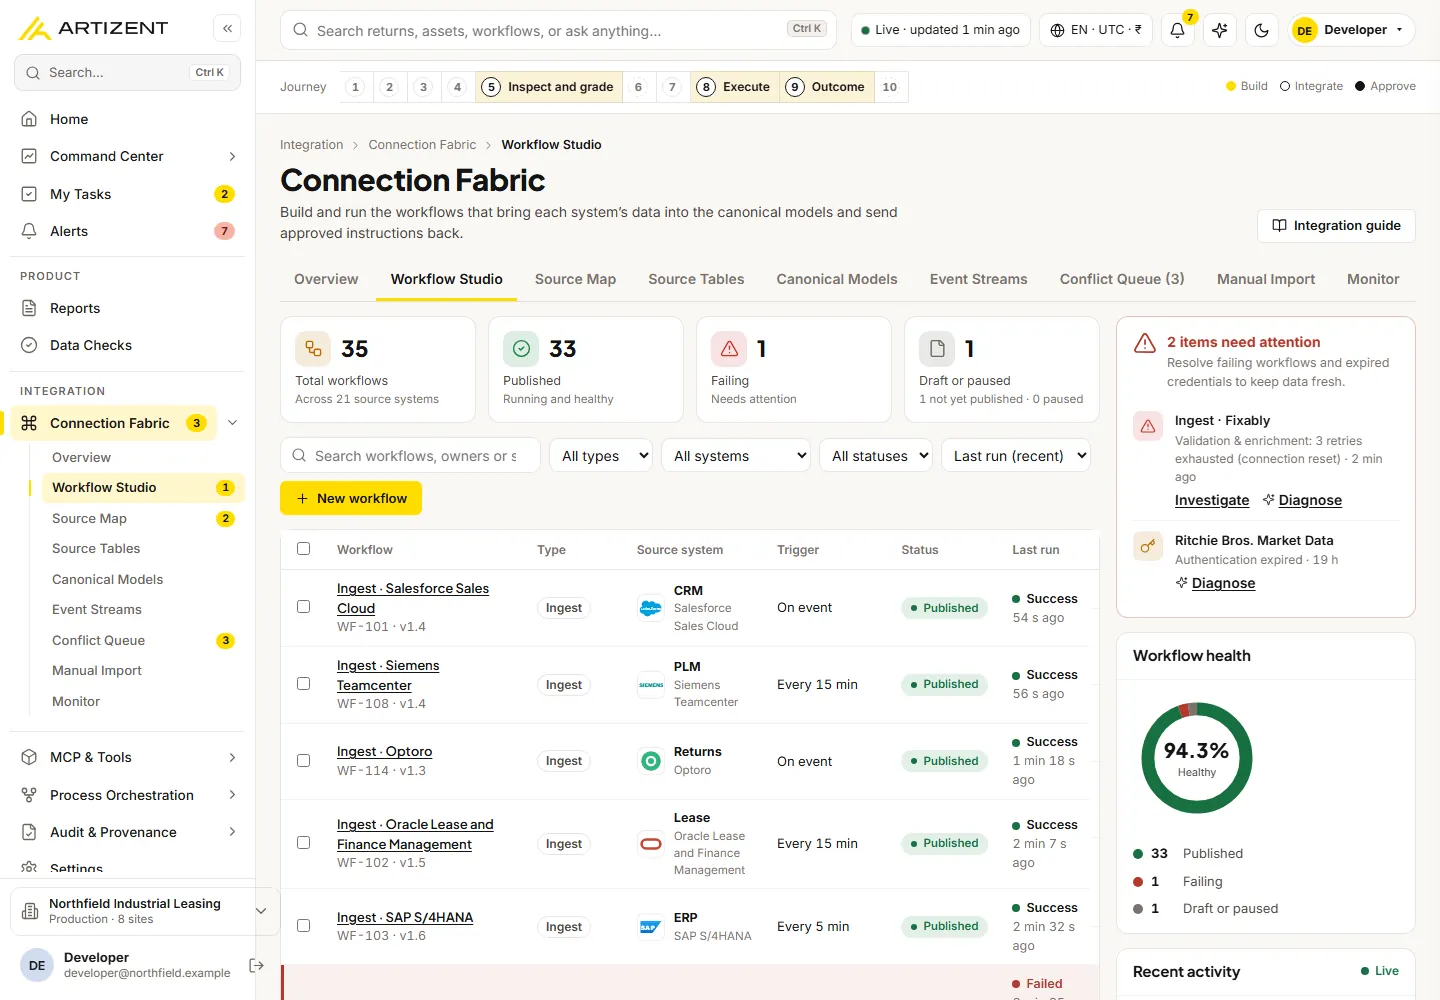
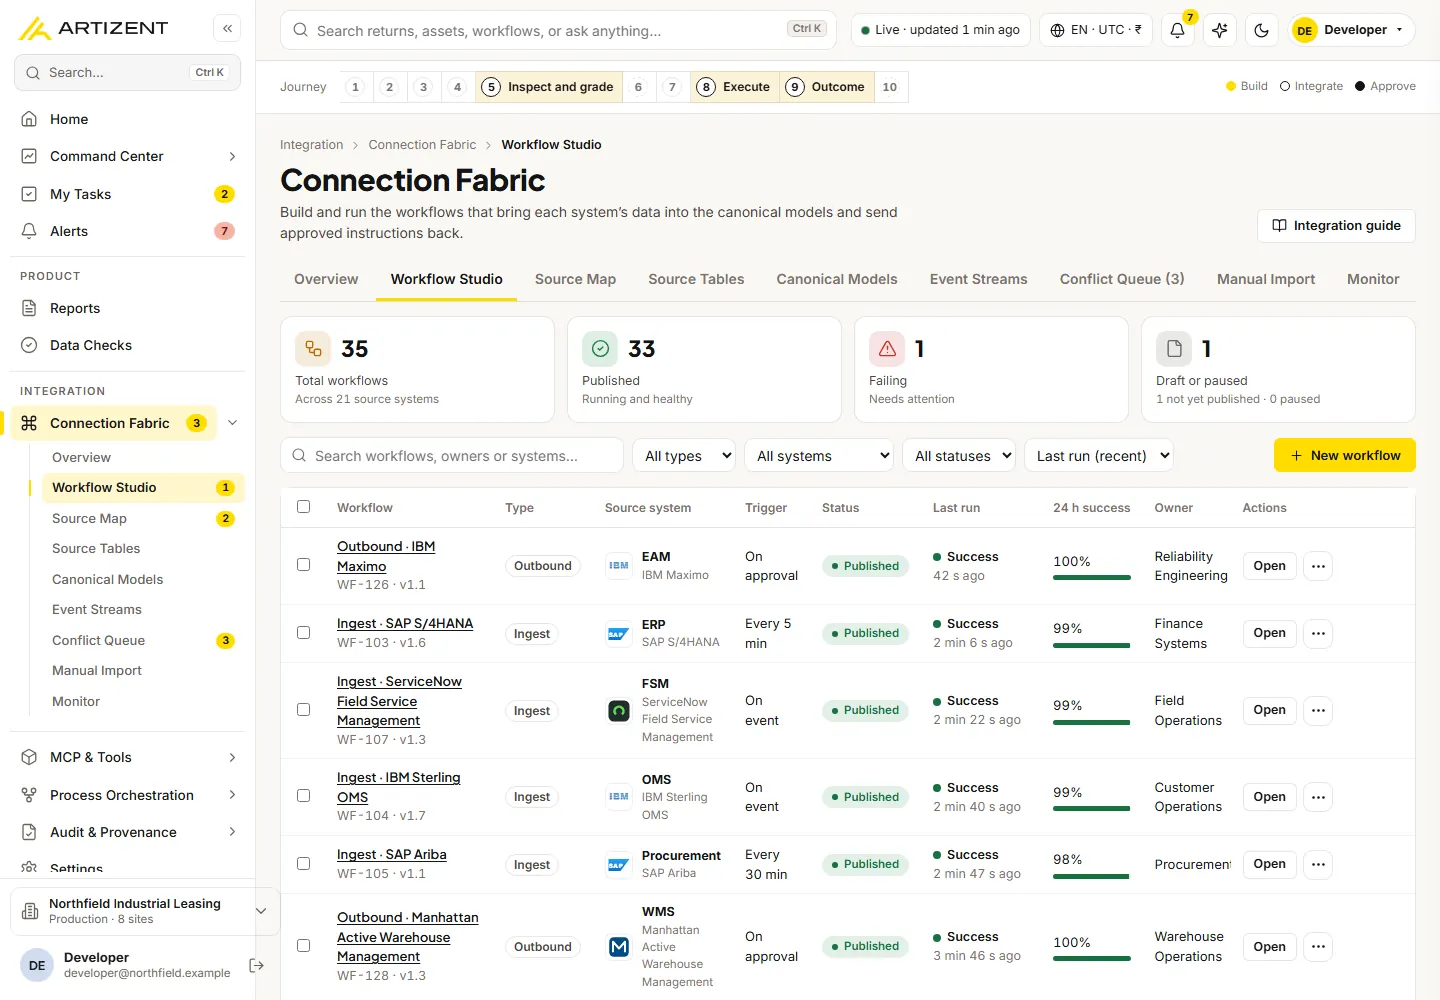
Fix the failing workflow row: class collision, pinned actions, clamped reason
The 24 h success cell shared the class `frok` with the connect flow's green "Allowed by" line, so
the cell became a flex box: its background broke, the mini bar vanished and 62% showed green.
The cell is now `frsucc` (the line is `frallowed`) and the value is coloured by threshold like the
bar. The Actions column is pinned to the right edge so Investigate, the agent's ✦ and ⋯ never clip;
✦ sits inline with them. The failure reason clamps to two lines with the full text on hover, the age
stays on one line, Owner and Trigger wrap, the page cap is 1760 px, and the right column moves under
the list below 1680 px.

diff --git a/index.html b/index.html
@@ -1266,12 +1266,15 @@ html.fr[data-theme="dark"] .vlg{border-color:transparent}
 .frtest .frtd{width:20px;height:20px;border-radius:50%;display:grid;place-items:center;font-size:11px;font-weight:800;background:var(--panel3)}.frtest li.ok .frtd{background:var(--ok);color:#fff}.frtest li.bad .frtd{background:var(--bad);color:#fff}.frtest li.bad{background:var(--bad-soft)}.frtest li.run .frtd{background:var(--yellow);color:#141414}
 /* ---- Workflow Studio list ---- */
 .frwfl{display:grid;grid-template-columns:minmax(0,1fr) 300px;gap:16px;align-items:start}.frwfm{display:grid;gap:14px;min-width:0}.frwfs{display:grid;gap:14px;position:sticky;top:76px}
-.frwft td{vertical-align:middle}.frwft td:nth-child(2){min-width:200px}.frwfm .tw{overflow-x:auto}.frck{width:34px}.frsys{display:flex;align-items:center;gap:9px}.frsys>span{display:flex;flex-direction:column;min-width:0}.frsys b{font-size:12.5px}.frsys .note{font-size:11.5px}
-tr.frfail td{background:color-mix(in srgb,var(--bad) 7%,transparent)}tr.frfail td:first-child{box-shadow:inset 3px 0 0 var(--bad)}
-.frwhy{font-size:11.5px;color:var(--bad);max-width:200px}
+html.fr .page{max-width:1760px}
+.frwft th,.frwft td{padding:9px 7px}.frwft td{vertical-align:middle}.frwft td:nth-child(2){min-width:168px}.frwft td:nth-child(9){max-width:104px}.frwft .frtrig{max-width:92px;min-width:70px}.frwfm .tw{overflow-x:auto}.frck{width:34px}.frsys{display:flex;align-items:center;gap:9px}.frsys>span{display:flex;flex-direction:column;min-width:0}.frsys b{font-size:12.5px}.frsys .note{font-size:11.5px}
+tr.frfail td{background:color-mix(in srgb,var(--bad) 7%,var(--panel))}
+/* the Actions column stays pinned to the right edge, so Investigate, ✦ and ⋯ are always visible */
+.frwft th:last-child,.frwft td:last-child{position:sticky;right:0;z-index:1;background:var(--panel);box-shadow:-10px 0 12px -10px rgba(0,0,0,.35)}.frwft thead th:last-child{background:var(--panel)}tr.frfail td:last-child{background:color-mix(in srgb,var(--bad) 7%,var(--panel))}tr.frfail td:first-child{box-shadow:inset 3px 0 0 var(--bad)}
+.frwhy{font-size:11.5px;line-height:1.35;color:var(--bad);max-width:180px;display:-webkit-box;-webkit-line-clamp:2;-webkit-box-orient:vertical;overflow:hidden;margin-top:2px}
 .frlr{display:inline-flex;align-items:center;gap:6px;font-size:12.5px;font-weight:600}.frlr i{width:8px;height:8px;border-radius:50%;background:var(--ok)}.frlr.failed{color:var(--bad)}.frlr.failed i{background:var(--bad)}.frlr.warning i{background:var(--h-dec)}
-.frok{min-width:96px}.frbar1{display:block;height:5px;border-radius:3px;background:var(--panel3);margin-top:4px;overflow:hidden}.frbar1 b{display:block;height:100%}
-.frta{gap:6px;align-items:center}.frinv{color:var(--bad);border-color:var(--bad)}
+.frsucc{min-width:80px}.frsucc .frmid{color:var(--warn)}.frbar1{display:block;height:5px;border-radius:3px;background:var(--panel3);margin-top:4px;overflow:hidden}.frbar1 b{display:block;height:100%}
+.frta{display:inline-flex;gap:6px;align-items:center;vertical-align:middle}.frwft td:last-child{white-space:nowrap}.frwft td:last-child>.afai{vertical-align:middle;margin-right:6px}.frinv{color:var(--bad);border-color:var(--bad)}
 .frbulk[hidden]{display:none}.frbulk{display:flex;align-items:center;gap:8px;padding:8px 12px;border-radius:10px;background:var(--yellow-soft);border:1px solid var(--yellow)}
 .frpager{display:flex;justify-content:space-between;align-items:center;gap:10px;padding:10px 14px;border-top:1px solid var(--line);flex-wrap:wrap}
 .frattnh{display:flex;gap:10px;align-items:flex-start}.frattnh>svg{width:24px;height:24px;color:var(--bad);flex:none}.frattnh b{color:var(--bad)}.frattnh p{margin:2px 0 0}
@@ -1350,15 +1353,17 @@ html.fr .wf[data-view="overview"] .frn .sb,html.fr .wf[data-view="overview"] .fr
 .frcxs{list-style:none;display:flex;gap:6px;padding:0;margin:0 0 16px;flex-wrap:wrap}.frcxs li{display:flex;align-items:center;gap:6px;font-size:12.5px;color:var(--muted);padding:4px 10px 4px 4px;border-radius:999px;background:var(--panel2)}
 .frcxs li span{width:20px;height:20px;border-radius:50%;display:grid;place-items:center;background:var(--panel3);font-size:11px;font-weight:700}.frcxs li.on{color:var(--ink);background:var(--yellow-soft)}.frcxs li.on span{background:var(--yellow);color:#141414}.frcxs li.done span{background:var(--ok);color:#fff}
 .frauth{display:grid;grid-template-columns:repeat(2,minmax(0,1fr));gap:8px;margin-bottom:12px}.frao{display:grid;grid-template-columns:auto 1fr;gap:2px 8px;padding:10px;border:1px solid var(--line);border-radius:10px;cursor:pointer}.frao input{grid-row:span 2}.frao.on{border-color:var(--yellow);background:var(--yellow-soft)}
-.frconsent{border:1px solid var(--line);border-radius:12px;padding:14px;background:var(--panel2);max-width:440px}.frcsh{display:flex;gap:10px;align-items:center;margin-bottom:8px}.frconsent ul{margin:6px 0 12px;padding-left:18px;font-size:13px}.frok{color:var(--ok);display:flex;gap:6px;align-items:center;margin:0;font-weight:600}.frok svg{width:16px;height:16px}
+.frconsent{border:1px solid var(--line);border-radius:12px;padding:14px;background:var(--panel2);max-width:440px}.frcsh{display:flex;gap:10px;align-items:center;margin-bottom:8px}.frconsent ul{margin:6px 0 12px;padding-left:18px;font-size:13px}.frallowed{color:var(--ok);display:flex;gap:6px;align-items:center;margin:0;font-weight:600}.frallowed svg{width:16px;height:16px}
 .frprog{height:10px;border-radius:5px;background:var(--panel3);overflow:hidden;margin:10px 0}.frprog i{display:block;height:100%;background:var(--yellow);transition:width .2s}
 .frdep{margin:6px 0 0;padding-left:18px}
-@media (max-width:1280px){.frwfl{grid-template-columns:minmax(0,1fr)}.frwfs{position:static;grid-template-columns:repeat(auto-fit,minmax(280px,1fr))}.frsmg{grid-template-columns:220px minmax(0,1fr)}.frsmp{grid-column:1/-1}.frwfg{grid-template-columns:minmax(0,1fr)}.frwfr{grid-template-columns:repeat(auto-fit,minmax(260px,1fr))}.frrecs{grid-template-columns:repeat(2,minmax(0,1fr))}}
+@media (max-width:1680px){.frwfl{grid-template-columns:minmax(0,1fr)}.frwfs{position:static;grid-template-columns:repeat(auto-fit,minmax(280px,1fr));align-items:start}}
+@media (max-width:1280px){.frsmg{grid-template-columns:220px minmax(0,1fr)}.frsmp{grid-column:1/-1}.frwfg{grid-template-columns:minmax(0,1fr)}.frwfr{grid-template-columns:repeat(auto-fit,minmax(260px,1fr))}.frrecs{grid-template-columns:repeat(2,minmax(0,1fr))}}
 @media (max-width:1100px){.frmon2,.frwfb,.frinvg{grid-template-columns:minmax(0,1fr)}.frfeat{grid-template-columns:minmax(0,1fr)}}
 @media (max-width:860px){.frkpis.fr3,.frkpis.fr4{grid-template-columns:repeat(2,minmax(0,1fr))}.frall,.frsmg{grid-template-columns:minmax(0,1fr)}.frcatl{display:none}.frrecs{grid-template-columns:minmax(0,1fr)}.frrep,.frset{grid-template-columns:minmax(0,1fr)}
  html.fr .frwf,html.fr .frwf.noinsp{grid-template-columns:minmax(0,1fr)}html.fr .frwf .wfpal,html.fr .frwf .wfinsp{display:none}.frwf.ro .wfview{pointer-events:none}.frphone{display:block;padding:8px 10px}.frcvt{display:none}
  .frtree{max-height:260px}.frgv{height:480px}.frauth{grid-template-columns:minmax(0,1fr)}.frwfh .wfname input{min-width:0;width:100%;font-size:18px}.frust{grid-template-columns:minmax(0,1fr)}}
 .frao input:focus-visible,.frchk input:focus-visible{outline-offset:2px;border-radius:50%}
+.frwft .frinv{padding:0 10px}
 /*FR-CSS-END*/
 </style>
 </head>
@@ -8040,9 +8045,9 @@ function frWfRow(w){const s=frWfSys(w),st=wfStat(w),l=w.last,ok=w.runsN?Math.rou
   return `<tr data-wid="${w.id}" class="${fail?'frfail':''}"><td class="frck"><input type="checkbox" aria-label="Select ${esc(w.name)}" data-ch="frWfPick" data-arg="${w.id}" ${S.frWfSel.has(w.id)?'checked':''}></td>
   <td><button class="lnk b" data-act="wfOpen" data-arg="${w.id}">${esc(w.name)}</button><div class="note">${w.id} · v${w.ver}${w.dirty?' · unsaved changes':''}</div></td><td><span class="chip line">${w.cat}</span></td>
   <td>${s?`<span class="frsys">${vlogo(s)}<span><b>${esc(s.deleted?'Deleted source':s.short||s.name)}</b><span class="note">${esc(s.vendor)}</span></span></span>`:`<span class="frsys">${frIt('bot','agent','sm')}<span><b>Decision</b><span class="note">Circularity</span></span></span>`}</td>
-  <td class="nowrap">${esc(trigText(w.trig))}</td><td>${w.running?frSt('running'):up?frSt('paused','Paused upstream'):frSt(st)}</td>
-  <td>${l?`<span class="frlr ${l.state}"><i></i>${WF_STL[l.state]}</span><div class="note"><span class="num" data-wage="${w.id}">${ageShort(Date.now()-l.ts)}</span> ago</div>${fail&&l.note?`<div class="frwhy">${esc(l.note)}</div>`:''}`:'<span class="note">Never run</span>'}</td>
-  <td class="frok">${ok==null?'<span class="note">—</span>':`<span class="num">${ok}%</span><i class="frbar1"><b style="width:${ok}%;background:${ok>=95?'var(--ok)':ok>=80?'var(--h-dec)':'var(--bad)'}"></b></i>`}</td><td>${esc(w.owner)}</td>
+  <td class="frtrig">${esc(trigText(w.trig))}</td><td>${w.running?frSt('running'):up?frSt('paused','Paused upstream'):frSt(st)}</td>
+  <td>${l?`<span class="frlr ${l.state}"><i></i>${WF_STL[l.state]}</span><div class="note nowrap"><span class="num" data-wage="${w.id}">${ageShort(Date.now()-l.ts)}</span> ago</div>${fail&&l.note?`<div class="frwhy" title="${esc(l.note)}">${esc(l.note)}</div>`:''}`:'<span class="note">Never run</span>'}</td>
+  <td class="frsucc">${ok==null?'<span class="note">—</span>':`<span class="num ${ok>=95?'':ok>=80?'frmid':'neg'}">${ok}%</span><i class="frbar1"><b style="width:${ok}%;background:${ok>=95?'var(--ok)':ok>=80?'var(--h-dec)':'var(--bad)'}"></b></i>`}</td><td>${esc(w.owner)}</td>
   <td class="nowrap"><span class="tacts frta">${fail?`<button class="btn sm frinv" data-act="frInvestigate" data-arg="${w.id}">Investigate</button>`:`<button class="btn sm" data-act="wfOpen" data-arg="${w.id}">Open</button>`}
    <details class="frmenu"><summary class="iconbtn sm" aria-label="More actions for ${esc(w.name)}">${ICON.more}</summary><div class="frdd" role="menu"><button role="menuitem" data-act="wfOpen" data-arg="${w.id}">${ICON.edit}<span>Edit</span></button><button role="menuitem" data-act="wfRunNow" data-arg="${w.id}" ${w.running?'disabled':''}>${ICON.play}<span>Run now</span></button>${w.status==='draft'?`<button role="menuitem" data-act="wfToggle" data-arg="${w.id}">${ICON.upload}<span>Publish</span></button>`:`<button role="menuitem" data-act="wfToggle" data-arg="${w.id}">${w.status==='paused'?ICON.play:ICON.pause}<span>${w.status==='paused'?'Resume':'Pause'}</span></button>`}<button role="menuitem" data-act="wfDup" data-arg="${w.id}">${ICON.copy}<span>Duplicate</span></button><button role="menuitem" data-act="frWfExport" data-arg="${w.id}">${ICON.download}<span>Export JSON</span></button><button role="menuitem" class="dng" data-act="wfDelAsk" data-arg="${w.id}">${ICON.trash}<span>Delete</span></button></div></details></span></td></tr>`}
 function frWfBody(){const L=frWfFilter(),pg=S.wf.f.pg||0,per=20,sh=L.slice(pg*per,pg*per+per);return sh.map(frWfRow).join('')||`<tr><td colspan="10"><div class="empty"><b>No workflows match</b>Clear the filters or create a new workflow.</div></td></tr>`}
@@ -8346,7 +8351,7 @@ function frCxRender(){const x=S.frCx;if(!x)return;const c=x.mode==='new'?CATALOG
   const si=x.mode==='reauth'?(x.step===1?0:1):x.step-1,bar=`<ol class="frcxs">${steps.map((t,i)=>`<li class="${i<si?'done':i===si?'on':''}"><span>${i<si?'✓':i+1}</span>${t}</li>`).join('')}</ol>`;
   let body='',foot='';
   if(x.step===1){body=`<p class="note" style="margin-top:0">How Circularity signs in to ${esc(v)}. Credentials go to the platform secret store and are never shown again.</p><div class="frauth">${FR_AUTH.filter(a=>!c||a[0]!=='sftp'||c.type==='store').map(a=>`<label class="frao ${x.auth===a[0]?'on':''}"><input type="radio" name="frAuth" value="${a[0]}" data-ch="frCxAuth" ${x.auth===a[0]?'checked':''}><b>${a[1]}</b><span class="note">${a[2]}</span></label>`).join('')}</div>
-    ${x.auth==='oauth'?`<div class="frconsent" id="frConsent"><div class="frcsh">${vlogo({vendor:v})}<b>${esc(v)}</b><span class="note">Sign in to authorise</span></div><p><b>Circularity Decision Workbench</b> is requesting access to:</p><ul><li>Read records it needs as evidence</li>${x.mode==='new'?'':'<li>Keep the existing scopes for '+esc(s.vendor)+'</li>'}<li>No write access unless you grant it in the next step</li></ul>${x.ok?`<p class="frok">${ICON.check} Allowed by ${esc(who())}</p>`:`<div class="row"><button class="btn" data-act="closeModal">Deny</button><button class="btn pri" data-act="frCxAllow">Allow</button></div>`}</div>`:x.auth==='key'?`<label for="frKey">API key</label><input id="frKey" type="password" class="sel" style="width:100%" placeholder="Paste the key" data-in="frCxKey" autocomplete="off">`:x.auth==='sftp'?`<label for="frSftp">Drop path</label><input id="frSftp" class="sel" style="width:100%" value="sftp://partner.example/outbound" data-in="frCxKey"><p class="note">Each file must arrive with a signed manifest; unsigned files are rejected.</p>`:`<label for="frSp">Service principal ID</label><input id="frSp" class="sel" style="width:100%" placeholder="e.g. svc-circularity-read" data-in="frCxKey" autocomplete="off">`}`;
+    ${x.auth==='oauth'?`<div class="frconsent" id="frConsent"><div class="frcsh">${vlogo({vendor:v})}<b>${esc(v)}</b><span class="note">Sign in to authorise</span></div><p><b>Circularity Decision Workbench</b> is requesting access to:</p><ul><li>Read records it needs as evidence</li>${x.mode==='new'?'':'<li>Keep the existing scopes for '+esc(s.vendor)+'</li>'}<li>No write access unless you grant it in the next step</li></ul>${x.ok?`<p class="frallowed">${ICON.check} Allowed by ${esc(who())}</p>`:`<div class="row"><button class="btn" data-act="closeModal">Deny</button><button class="btn pri" data-act="frCxAllow">Allow</button></div>`}</div>`:x.auth==='key'?`<label for="frKey">API key</label><input id="frKey" type="password" class="sel" style="width:100%" placeholder="Paste the key" data-in="frCxKey" autocomplete="off">`:x.auth==='sftp'?`<label for="frSftp">Drop path</label><input id="frSftp" class="sel" style="width:100%" value="sftp://partner.example/outbound" data-in="frCxKey"><p class="note">Each file must arrive with a signed manifest; unsigned files are rejected.</p>`:`<label for="frSp">Service principal ID</label><input id="frSp" class="sel" style="width:100%" placeholder="e.g. svc-circularity-read" data-in="frCxKey" autocomplete="off">`}`;
     const ready=x.auth==='oauth'?!!x.ok:(x.key||'').length>=6||x.auth==='sftp';foot=`<button class="btn" data-act="closeModal">Cancel</button><button class="btn pri" data-act="frCxNext" ${ready?'':'disabled'}>Continue</button>`}
   else if(x.step===2){const rs=[['read','Read records','Required. Evidence only.'],['write','Write approved instructions','Off by default; writes only run after Human approval.'],['events','Receive events','Webhook or queue delivery for near-real-time updates.']];
     body=`<p class="note" style="margin-top:0">Grant only what Circularity needs. You can change scopes later under Security.</p><div class="frchk">${rs.map(r=>`<label class="tog"><input type="checkbox" data-ch="frCxScope" data-arg="${r[0]}" ${x.scopes.includes(r[0])?'checked':''} ${r[0]==='read'?'disabled':''}> <b>${r[1]}</b> <span class="note">${r[2]}</span></label>`).join('')}</div>`;
